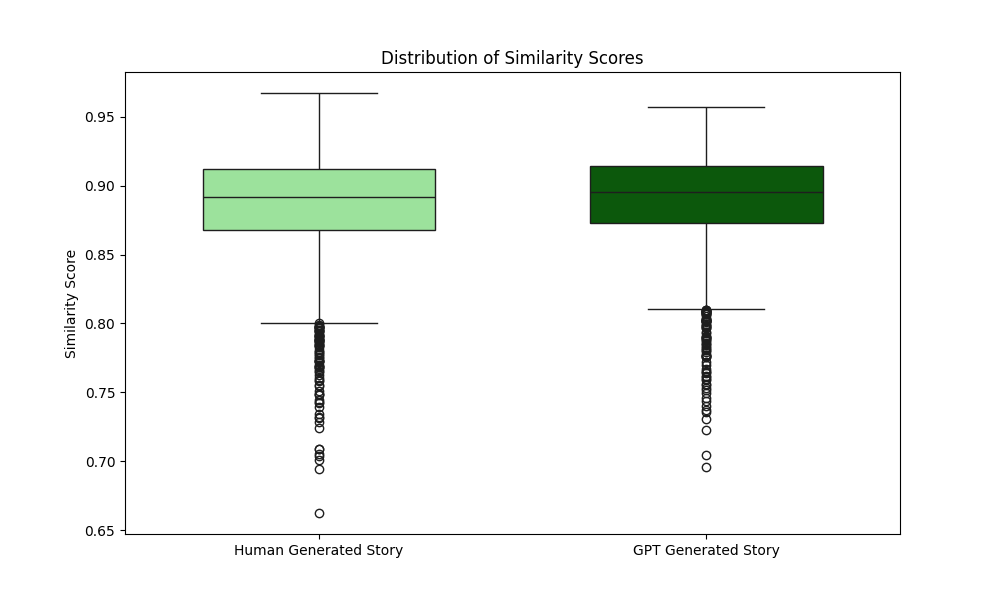
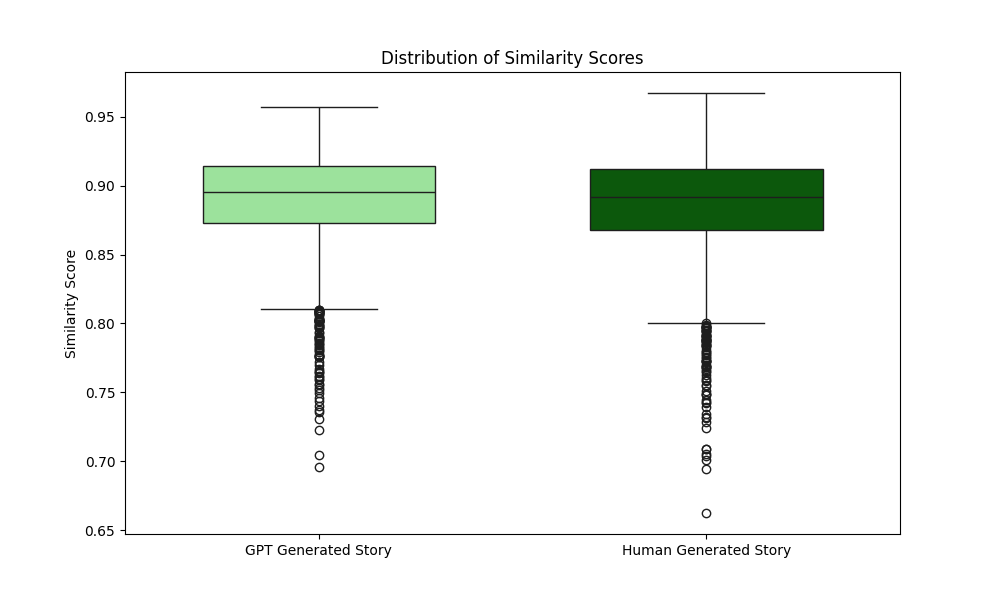
Update the plots

diff --git a/experiment2.py b/experiment2.py
@@ -65,15 +65,15 @@ def plot(df, plot_type):
         plt.title('Count of Stories With Higher Cosine Similarity to Original Story')
         plt.ylabel('Count')
         plt.xlabel('')
-        plt.xticks(ticks=range(len(labels_updated)), labels=labels_updated)
+        plt.xticks(ticks=range(len(labels_updated)), labels=reversed(labels_updated))
         plt.savefig('datasets/experiment2/closer_to_story.png')
         plt.show()
 
     def generate_boxplot():
-        data_to_plot = [df['story_summary_similarity'], df['story_generated_story_similarity']]
+        data_to_plot = [df['story_generated_story_similarity'], df['story_summary_similarity']]
         plt.figure(figsize=(10, 6))
         sns.boxplot(data=data_to_plot, orient="v", palette=colors, width=0.6)
-        plt.xticks(ticks=range(len(labels_updated)), labels=labels_updated)
+        plt.xticks(ticks=range(len(labels_updated)), labels=reversed(labels_updated))
         plt.ylabel('Similarity Score')
         plt.title('Distribution of Similarity Scores')
         plt.savefig('datasets/experiment2/similarity_scores.png')
@@ -116,5 +116,6 @@ if __name__ == "__main__":
     else: df_processed = pd.read_csv(args.output_path)
         
     # Generate plots
+    print(df_processed['closer_to_story'].value_counts())
     plot(df_processed, 'value_plot')
     plot(df_processed, 'boxplot')
